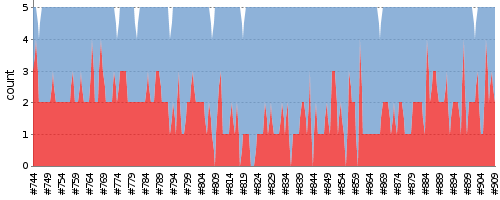
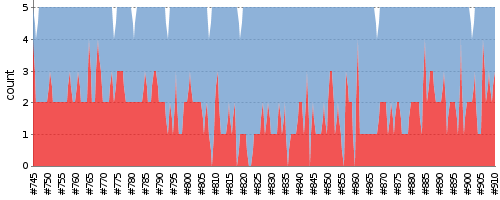
update report

diff --git a/index.md b/index.md
@@ -1,7 +1,7 @@
 ---
 layout: default
 ---
-Last update : 2016/01/24 05:59:33
+Last update : 2016/01/24 06:59:16
   
 ### Job Summary
 ___
@@ -116,6 +116,7 @@ ___
 #### Build History
 |Status|Time|Duration|Inspection|Test|Coverage|Changes|Build|Console|Image|Video|Note|
 |---|---|---|---|---|---|---|---|---|---|---|---|---|
+|![Jenkins Icon](http://jenkinshrg.github.io/images/24x24/yellow.png)UNSTABLE|2016/01/24 06:00|49 min.||3 err.|||[openhrp3.log](https://drive.google.com/file/d/0B54sHwaxmuM4VU1OUUYwMnNTTzQ/view?usp=drivesdk)<br>[hrpsys-base.log](https://drive.google.com/file/d/0B54sHwaxmuM4ZGswVWlmYzlTWTA/view?usp=drivesdk)<br>[HRP2.log](https://drive.google.com/file/d/0B54sHwaxmuM4V21uZzJ6aFNqLW8/view?usp=drivesdk)<br>[HRP2DRC.log](https://drive.google.com/file/d/0B54sHwaxmuM4WXYwWVRxcnhBdDQ/view?usp=drivesdk)<br>[hmc2.log](https://drive.google.com/file/d/0B54sHwaxmuM4LWprMnY3a0JsS0U/view?usp=drivesdk)<br>[hrpsys-humanoid.log](https://drive.google.com/file/d/0B54sHwaxmuM4Y1BILUN5dEhoX3M/view?usp=drivesdk)<br>[hrpsys-private.log](https://drive.google.com/file/d/0B54sHwaxmuM4UmJsc2htYzdHVnc/view?usp=drivesdk)<br>[choreonoid.log](https://drive.google.com/file/d/0B54sHwaxmuM4cGhpNUgyREF2Vmc/view?usp=drivesdk)<br>|[jenkinshrg.txt](https://drive.google.com/file/d/0B54sHwaxmuM4MzYtcF9JSExSMVk/view?usp=drivesdk)<br>[testbed-terrain.txt](https://drive.google.com/file/d/0B54sHwaxmuM4SGNLdVYwQ2R2QjQ/view?usp=drivesdk)<br>[drc-valves.txt](https://drive.google.com/file/d/0B54sHwaxmuM4N3E4UXRHamUyQ2c/view?usp=drivesdk)<br>[drc-wall-testbed.txt](https://drive.google.com/file/d/0B54sHwaxmuM4QktYSWFaZUtrc0k/view?usp=drivesdk)<br>[irex-balance-beam-auto.txt](https://drive.google.com/file/d/0B54sHwaxmuM4M1A3MldPV01TUHc/view?usp=drivesdk)<br>|[jenkinshrg.png](https://drive.google.com/file/d/0B54sHwaxmuM4YnhQRVVDTWpTVnc/view?usp=drivesdk)<br>[testbed-terrain.png](https://drive.google.com/file/d/0B54sHwaxmuM4cUoxejU1clBNZ3c/view?usp=drivesdk)<br>[drc-valves.png](https://drive.google.com/file/d/0B54sHwaxmuM4VDNnMEw2aDJOdFU/view?usp=drivesdk)<br>[drc-wall-testbed.png](https://drive.google.com/file/d/0B54sHwaxmuM4cFlOeFEtVTBNMTQ/view?usp=drivesdk)<br>[irex-balance-beam-auto.png](https://drive.google.com/file/d/0B54sHwaxmuM4NGRjLU5KWWpFdU0/view?usp=drivesdk)<br>|[jenkinshrg.ogv](https://drive.google.com/file/d/0B54sHwaxmuM4YV8tbUVrWUJwV3M/view?usp=drivesdk)<br>[testbed-terrain.ogv](https://drive.google.com/file/d/0B54sHwaxmuM4bXVkXzF5cmpzUUk/view?usp=drivesdk)<br>[drc-valves.ogv](https://drive.google.com/file/d/0B54sHwaxmuM4ZmdHUXJIRURpNmc/view?usp=drivesdk)<br>[drc-wall-testbed.ogv](https://drive.google.com/file/d/0B54sHwaxmuM4RF83ekczamVIZDA/view?usp=drivesdk)<br>[irex-balance-beam-auto.ogv](https://drive.google.com/file/d/0B54sHwaxmuM4VFI5TjFpUy0wRGs/view?usp=drivesdk)<br>||
 |![Jenkins Icon](http://jenkinshrg.github.io/images/24x24/yellow.png)UNSTABLE|2016/01/24 05:00|48 min.||2 err.|||[openhrp3.log](https://drive.google.com/file/d/0B54sHwaxmuM4NE1xOUVQWUYzYzQ/view?usp=drivesdk)<br>[hrpsys-base.log](https://drive.google.com/file/d/0B54sHwaxmuM4dExham5oOFBxY1k/view?usp=drivesdk)<br>[HRP2.log](https://drive.google.com/file/d/0B54sHwaxmuM4dWZXeF9lM2NqbjQ/view?usp=drivesdk)<br>[HRP2DRC.log](https://drive.google.com/file/d/0B54sHwaxmuM4a1RKd1hja0pFaVU/view?usp=drivesdk)<br>[hmc2.log](https://drive.google.com/file/d/0B54sHwaxmuM4MXAwRlR2cTM3amc/view?usp=drivesdk)<br>[hrpsys-humanoid.log](https://drive.google.com/file/d/0B54sHwaxmuM4TkhpR01GaWlkM00/view?usp=drivesdk)<br>[hrpsys-private.log](https://drive.google.com/file/d/0B54sHwaxmuM4UElzaHdHTUpiUmc/view?usp=drivesdk)<br>[choreonoid.log](https://drive.google.com/file/d/0B54sHwaxmuM4NGY0VHhUVEhMeDA/view?usp=drivesdk)<br>|[jenkinshrg.txt](https://drive.google.com/file/d/0B54sHwaxmuM4TDhTLWd1SHhDOUk/view?usp=drivesdk)<br>[testbed-terrain.txt](https://drive.google.com/file/d/0B54sHwaxmuM4NHYzVjFFVjR5SnM/view?usp=drivesdk)<br>[drc-valves.txt](https://drive.google.com/file/d/0B54sHwaxmuM4cklhN1pfTkF2YzQ/view?usp=drivesdk)<br>[drc-wall-testbed.txt](https://drive.google.com/file/d/0B54sHwaxmuM4bVYyaC1UTXBOZzA/view?usp=drivesdk)<br>[irex-balance-beam-auto.txt](https://drive.google.com/file/d/0B54sHwaxmuM4OFB1VlVvRTJLT28/view?usp=drivesdk)<br>|[jenkinshrg.png](https://drive.google.com/file/d/0B54sHwaxmuM4aVBOcnFLMmFwNm8/view?usp=drivesdk)<br>[testbed-terrain.png](https://drive.google.com/file/d/0B54sHwaxmuM4VEJJekNvSXRodFE/view?usp=drivesdk)<br>[drc-valves.png](https://drive.google.com/file/d/0B54sHwaxmuM4OER2VUdrM2NUQ0U/view?usp=drivesdk)<br>[drc-wall-testbed.png](https://drive.google.com/file/d/0B54sHwaxmuM4cmpFdzVNMlhMZWc/view?usp=drivesdk)<br>[irex-balance-beam-auto.png](https://drive.google.com/file/d/0B54sHwaxmuM4eUJvOWRURkt1WGs/view?usp=drivesdk)<br>|[jenkinshrg.ogv](https://drive.google.com/file/d/0B54sHwaxmuM4T3hhNlhWcTNWRWM/view?usp=drivesdk)<br>[testbed-terrain.ogv](https://drive.google.com/file/d/0B54sHwaxmuM4eGZfTzA5bWF0Wk0/view?usp=drivesdk)<br>[drc-valves.ogv](https://drive.google.com/file/d/0B54sHwaxmuM4VlRlZ2V5TTJMRzg/view?usp=drivesdk)<br>[drc-wall-testbed.ogv](https://drive.google.com/file/d/0B54sHwaxmuM4eHJvMHFibldWdTg/view?usp=drivesdk)<br>[irex-balance-beam-auto.ogv](https://drive.google.com/file/d/0B54sHwaxmuM4Z3pFRk5BbUs1cjg/view?usp=drivesdk)<br>||
 |![Jenkins Icon](http://jenkinshrg.github.io/images/24x24/yellow.png)UNSTABLE|2016/01/24 04:00|48 min.||3 err.|||[openhrp3.log](https://drive.google.com/file/d/0B54sHwaxmuM4WEg1WWt1OXREVlU/view?usp=drivesdk)<br>[hrpsys-base.log](https://drive.google.com/file/d/0B54sHwaxmuM4U2w0NUlQYnlGUGc/view?usp=drivesdk)<br>[HRP2.log](https://drive.google.com/file/d/0B54sHwaxmuM4LW5uVEhlcGdjbjA/view?usp=drivesdk)<br>[HRP2DRC.log](https://drive.google.com/file/d/0B54sHwaxmuM4NllLczF6ZTFLSTQ/view?usp=drivesdk)<br>[hmc2.log](https://drive.google.com/file/d/0B54sHwaxmuM4eWRXd2hCS2ZuS2s/view?usp=drivesdk)<br>[hrpsys-humanoid.log](https://drive.google.com/file/d/0B54sHwaxmuM4b0tYWU1jX0x4T3c/view?usp=drivesdk)<br>[hrpsys-private.log](https://drive.google.com/file/d/0B54sHwaxmuM4ZnBEcnZQVjR4SzQ/view?usp=drivesdk)<br>[choreonoid.log](https://drive.google.com/file/d/0B54sHwaxmuM4Vm4taDhwUzBGdUk/view?usp=drivesdk)<br>|[jenkinshrg.txt](https://drive.google.com/file/d/0B54sHwaxmuM4OHhhUnNzbFZEUkk/view?usp=drivesdk)<br>[testbed-terrain.txt](https://drive.google.com/file/d/0B54sHwaxmuM4a1JQaDZrdExCWW8/view?usp=drivesdk)<br>[drc-valves.txt](https://drive.google.com/file/d/0B54sHwaxmuM4Q19ibjVCVm1WdE0/view?usp=drivesdk)<br>[drc-wall-testbed.txt](https://drive.google.com/file/d/0B54sHwaxmuM4QmtjNUh1akxtM2M/view?usp=drivesdk)<br>[irex-balance-beam-auto.txt](https://drive.google.com/file/d/0B54sHwaxmuM4LXNLb1g3ZGIwdDQ/view?usp=drivesdk)<br>|[jenkinshrg.png](https://drive.google.com/file/d/0B54sHwaxmuM4MVJLamRSZl83ZTg/view?usp=drivesdk)<br>[testbed-terrain.png](https://drive.google.com/file/d/0B54sHwaxmuM4b3Q3bGZ0OVpHRDA/view?usp=drivesdk)<br>[drc-valves.png](https://drive.google.com/file/d/0B54sHwaxmuM4NmJXZ2xWZHRWZWs/view?usp=drivesdk)<br>[drc-wall-testbed.png](https://drive.google.com/file/d/0B54sHwaxmuM4ZXVZOFFpOUxCUjA/view?usp=drivesdk)<br>[irex-balance-beam-auto.png](https://drive.google.com/file/d/0B54sHwaxmuM4WGRER2c3YzZqYUk/view?usp=drivesdk)<br>|[jenkinshrg.ogv](https://drive.google.com/file/d/0B54sHwaxmuM4TDE5azdmaFBPMWs/view?usp=drivesdk)<br>[testbed-terrain.ogv](https://drive.google.com/file/d/0B54sHwaxmuM4cDNla2xLVUxSYm8/view?usp=drivesdk)<br>[drc-valves.ogv](https://drive.google.com/file/d/0B54sHwaxmuM4ZHRZdXVyOFRVOVU/view?usp=drivesdk)<br>[drc-wall-testbed.ogv](https://drive.google.com/file/d/0B54sHwaxmuM4MHlEbzFrUnJadUk/view?usp=drivesdk)<br>[irex-balance-beam-auto.ogv](https://drive.google.com/file/d/0B54sHwaxmuM4MmNERF9zbFBtQ1k/view?usp=drivesdk)<br>||
 |![Jenkins Icon](http://jenkinshrg.github.io/images/24x24/yellow.png)UNSTABLE|2016/01/24 03:00|48 min.||2 err.|||[openhrp3.log](https://drive.google.com/file/d/0B54sHwaxmuM4US1LTTZLQkh5Qkk/view?usp=drivesdk)<br>[hrpsys-base.log](https://drive.google.com/file/d/0B54sHwaxmuM4d20yTzh5TE1jcWM/view?usp=drivesdk)<br>[HRP2.log](https://drive.google.com/file/d/0B54sHwaxmuM4eVJMNkVzX1BkUDA/view?usp=drivesdk)<br>[HRP2DRC.log](https://drive.google.com/file/d/0B54sHwaxmuM4d21lN0RZSm44aG8/view?usp=drivesdk)<br>[hmc2.log](https://drive.google.com/file/d/0B54sHwaxmuM4VDR5eG8xN19tY0U/view?usp=drivesdk)<br>[hrpsys-humanoid.log](https://drive.google.com/file/d/0B54sHwaxmuM4Mm5aSXowZDRVNzQ/view?usp=drivesdk)<br>[hrpsys-private.log](https://drive.google.com/file/d/0B54sHwaxmuM4cDNyMDE0b09zZEE/view?usp=drivesdk)<br>[choreonoid.log](https://drive.google.com/file/d/0B54sHwaxmuM4UXoyZGpXU3U5Wkk/view?usp=drivesdk)<br>|[jenkinshrg.txt](https://drive.google.com/file/d/0B54sHwaxmuM4OUxfLXZ2WFFPOUU/view?usp=drivesdk)<br>[testbed-terrain.txt](https://drive.google.com/file/d/0B54sHwaxmuM4dUlzZXhLTHlkcGs/view?usp=drivesdk)<br>[drc-valves.txt](https://drive.google.com/file/d/0B54sHwaxmuM4cmZMOTE4V01HVlU/view?usp=drivesdk)<br>[drc-wall-testbed.txt](https://drive.google.com/file/d/0B54sHwaxmuM4WGZVa2JLcFFta28/view?usp=drivesdk)<br>[irex-balance-beam-auto.txt](https://drive.google.com/file/d/0B54sHwaxmuM4ZVNrQVlGeGxXZHM/view?usp=drivesdk)<br>|[jenkinshrg.png](https://drive.google.com/file/d/0B54sHwaxmuM4aHM0dnJURVBvRzg/view?usp=drivesdk)<br>[testbed-terrain.png](https://drive.google.com/file/d/0B54sHwaxmuM4Z2x1bDY1TjFQeFU/view?usp=drivesdk)<br>[drc-valves.png](https://drive.google.com/file/d/0B54sHwaxmuM4cmJWak9UdXRObUk/view?usp=drivesdk)<br>[drc-wall-testbed.png](https://drive.google.com/file/d/0B54sHwaxmuM4eEN0M1k1eUhEdjg/view?usp=drivesdk)<br>[irex-balance-beam-auto.png](https://drive.google.com/file/d/0B54sHwaxmuM4QWlOaGlrMW1XWlU/view?usp=drivesdk)<br>|[jenkinshrg.ogv](https://drive.google.com/file/d/0B54sHwaxmuM4WVFvTzNyWHpXczA/view?usp=drivesdk)<br>[testbed-terrain.ogv](https://drive.google.com/file/d/0B54sHwaxmuM4a2dxZk5HMm01Mkk/view?usp=drivesdk)<br>[drc-valves.ogv](https://drive.google.com/file/d/0B54sHwaxmuM4ejdKNV9mZ3FoenM/view?usp=drivesdk)<br>[drc-wall-testbed.ogv](https://drive.google.com/file/d/0B54sHwaxmuM4dEFaTHlqeGhfdnc/view?usp=drivesdk)<br>[irex-balance-beam-auto.ogv](https://drive.google.com/file/d/0B54sHwaxmuM4aWtxZWVyVWRRVkU/view?usp=drivesdk)<br>||
@@ -215,4 +216,3 @@ ___
 |![Jenkins Icon](http://jenkinshrg.github.io/images/24x24/yellow.png)UNSTABLE|2016/01/20 10:00|46 min.||1 err.||||||||
 |![Jenkins Icon](http://jenkinshrg.github.io/images/24x24/yellow.png)UNSTABLE|2016/01/20 09:00|44 min.||1 err.||||||||
 |![Jenkins Icon](http://jenkinshrg.github.io/images/24x24/yellow.png)UNSTABLE|2016/01/20 08:00|45 min.||3 err.||||||||
-|![Jenkins Icon](http://jenkinshrg.github.io/images/24x24/yellow.png)UNSTABLE|2016/01/20 07:00|44 min.||2 err.||||||||
